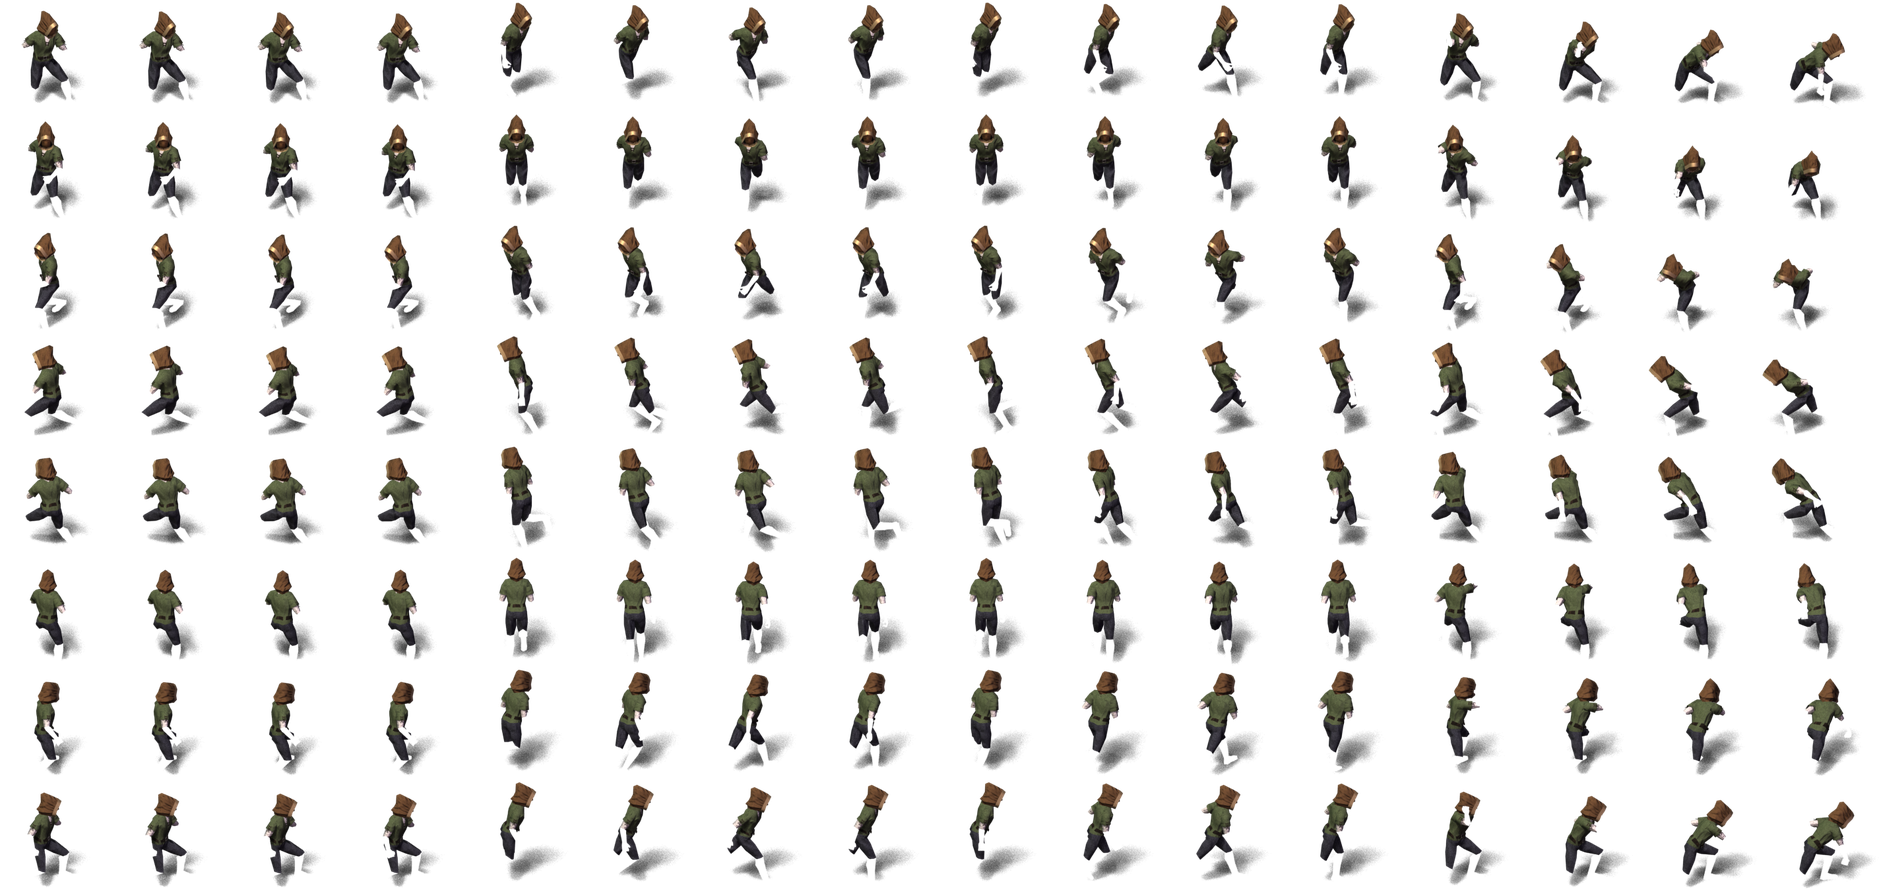
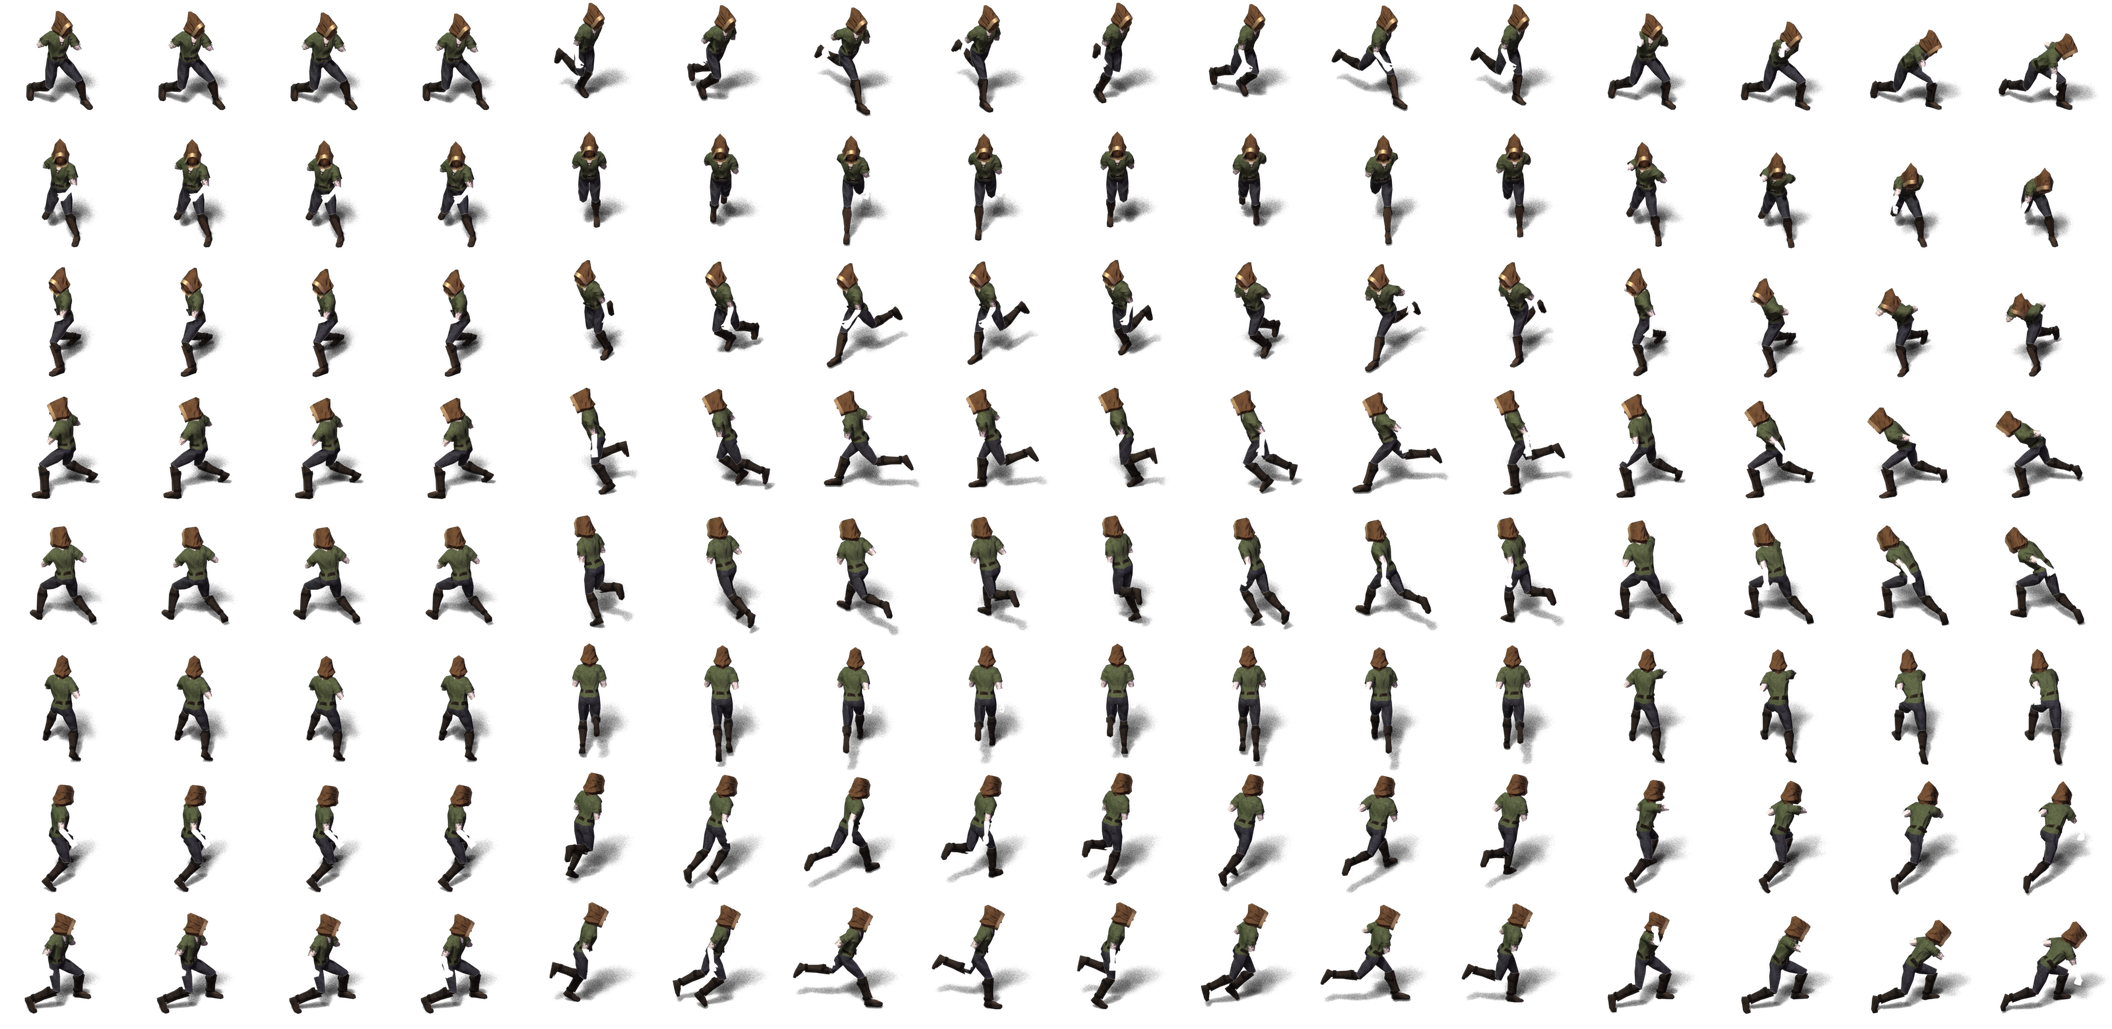
Visual polish: terrain blending, building detail, bigger dragons, boots
- Terrain transitions: higher-priority ground (snow > grass > road >
  rock > sand > water) feathers a dithered pixel fringe onto neighbours
  along shared diamond edges, so coasts, roads and snowlines blend
  instead of butting hard; masonry stays crisp on purpose
- Building detail: shuttered windows on upper wall cubes, chimneys with
  drifting smoke, roof ridge caps, and tables/stools dressing interiors
  (placed clear of vendors and walls)
- Dragons rebuilt at 1.6x their previous size
- Player avatar gets a leather boots layer — feet were bare/translucent
  because no foot layer was composited

Also ships Railway deploy config (railway.json, engines field, README
deploy section with volume note for data/ persistence).

https://claude.ai/code/session_01KSjxPmjtYxKmJPahfbJ56W

diff --git a/client/game.js b/client/game.js
@@ -37,6 +37,7 @@ const state = {
   mobs: new Map(),
   vendors: [],          // static shopkeepers from the welcome message
   drops: [],            // loot lying on the ground
+  props: [],            // furniture inside buildings (client-side dressing)
   me: null,             // my entry in players
   you: null,            // private stats from the server
   speech: new Map(),    // entity id -> { text, until, magic }
@@ -88,6 +89,22 @@ function handleMessage(msg) {
       state.chunks.clear();
       state.wantedChunks.clear();
       state.buildings = msg.buildings || [];
+      // Dress interiors with furniture, avoiding tiles where a vendor stands.
+      state.props = [];
+      const occupied = new Set(state.vendors.map((v) => v.x + ',' + v.y));
+      for (const b of state.buildings) {
+        if (b.w < 5 || b.h < 4) continue;
+        const cx = b.x + Math.floor(b.w / 2);
+        const cy = b.y + Math.floor(b.h / 2);
+        const spots = [[cx, cy], [cx - 1, cy], [cx, cy - 1], [cx + 1, cy]];
+        const free = spots.filter(([x, y]) =>
+          !occupied.has(x + ',' + y) &&
+          x > b.x && x < b.x + b.w - 1 && y > b.y && y < b.y + b.h - 1);
+        if (free.length) {
+          state.props.push({ x: free[0][0], y: free[0][1], name: b.w >= 6 ? 'prop.table' : 'prop.stool' });
+          if (free.length > 1) state.props.push({ x: free[1][0], y: free[1][1], name: 'prop.stool' });
+        }
+      }
       state.mini = msg.mini;
       buildMinimap();
       document.getElementById('login').classList.add('hidden');
@@ -509,6 +526,23 @@ function hash(x, y) {
   return ((h ^ (h >>> 16)) >>> 0) / 4294967296;
 }
 
+// Terrain blending: tiles with higher priority bleed a soft fringe onto
+// lower-priority neighbours. Masonry (floor/wall/shrine) stays crisp.
+const TILE_BLEND = {
+  [T.WATER]: { pal: 'water', pri: 0 },
+  [T.SAND]: { pal: 'sand', pri: 1 },
+  [T.ROCK]: { pal: 'dirt', pri: 2 },
+  [T.ROAD]: { pal: 'dirt', pri: 3 },
+  [T.GRASS]: { pal: 'grass', pri: 4 },
+  [T.TREE]: { pal: 'grass', pri: 4 },
+  [T.SNOW]: { pal: 'snow', pri: 5 },
+  [T.SNOWTREE]: { pal: 'snow', pri: 5 },
+};
+
+// Neighbour offsets for the four diamond edges, in edge order
+// (upper-left, upper-right, lower-right, lower-left).
+const EDGE_NEIGHBOR = [[-1, 0], [0, -1], [1, 0], [0, 1]];
+
 // Flat-shaded fallback palette, used when sprite assets are unavailable.
 const TILE_COLORS = {
   [T.WATER]: ['#1d4d6e', '#1a4664'],
@@ -601,6 +635,17 @@ function render() {
         const recipe = Assets.tile(tile) || Assets.tile(T.WATER);
         Assets.drawGround(ctx, recipe, h, sx, sy);
 
+        // Feather higher-priority neighbours over this tile's edges.
+        const blend = TILE_BLEND[tile];
+        if (blend) {
+          for (let e = 0; e < 4; e++) {
+            const nb = TILE_BLEND[tileAt(tx + EDGE_NEIGHBOR[e][0], ty + EDGE_NEIGHBOR[e][1])];
+            if (nb && nb.pri > blend.pri && nb.pal !== blend.pal) {
+              Assets.drawFringe(ctx, nb.pal, e, sx, sy);
+            }
+          }
+        }
+
         if (recipe.objectSets) {
           const sets = recipe.objectSets;
           const set = sets[Math.floor(hash((tx >> 4) * 7 + 3, (ty >> 4) * 13 + 5) * sets.length)];
@@ -609,7 +654,8 @@ function render() {
         } else if (recipe.object) {
           const name = recipe.object[Math.floor(hash(tx * 5 + 1, ty) * recipe.object.length)];
           drawables.push({ depth: tx + ty, kind: 'sprite', name, x: top.x, y: top.y + HH,
-            stack: recipe.stack || 1 });
+            stack: recipe.stack || 1,
+            win: recipe.stack > 1 && hash(tx * 3 + 5, ty * 7 + 1) > 0.55 });
         } else if (recipe.decor && hash(tx, ty * 3 + 1) < recipe.decor.chance) {
           const name = recipe.decor.objects[Math.floor(h * recipe.decor.objects.length)];
           drawables.push({ depth: tx + ty, kind: 'sprite', name, x: top.x, y: top.y + HH });
@@ -637,6 +683,13 @@ function render() {
     drawables.push({ depth: b.x + b.w + b.y + b.h + 0.5, kind: 'roof', b });
   }
 
+  // Interior furniture.
+  for (const pr of state.props) {
+    if (pr.x < x0 || pr.x > x1 || pr.y < y0 || pr.y > y1) continue;
+    const s = worldToScreen(pr.x, pr.y, cam);
+    drawables.push({ depth: pr.x + pr.y, kind: 'sprite', name: pr.name, x: s.x, y: s.y + HH, stack: 1 });
+  }
+
   // Entities join the same depth-sorted pass.
   for (const d of state.drops) drawables.push({ depth: d.x + d.y, kind: 'drop', e: d });
   for (const v of state.vendors) drawables.push({ depth: v.rx + v.ry, kind: 'vendor', e: v });
@@ -651,6 +704,7 @@ function render() {
           // Stacked wall cubes: plain blocks below, the variant on top.
           for (let i = 0; i < d.stack - 1; i++) Assets.drawFrame(ctx, 'wall.0', d.x, d.y - 32 * i);
           Assets.drawFrame(ctx, d.name, d.x, d.y - 32 * (d.stack - 1));
+          if (d.win) drawWindow(d.x, d.y);
         } else {
           Assets.drawFrame(ctx, d.name, d.x, d.y);
         }
@@ -658,7 +712,7 @@ function render() {
       case 'block': drawFallbackBlock(d); break;
       case 'shrine': drawShrine(d.x, d.y, time); break;
       case 'drop': drawDrop(d.e, cam, time); break;
-      case 'roof': drawRoof(d.b, cam); break;
+      case 'roof': drawRoof(d.b, cam, time); break;
       case 'vendor': drawVendor(d.e, cam, time); break;
       case 'mob': drawMob(d.e, cam, time); break;
       case 'player': drawPlayer(d.e, cam, time); break;
@@ -746,9 +800,21 @@ function drawFallbackBlock(d) {
   }
 }
 
+// A shuttered window on the southeast face of an upper wall cube.
+function drawWindow(cx, cy) {
+  const x = cx + 9;
+  const y = cy - 56;
+  ctx.fillStyle = '#241a12';
+  ctx.fillRect(x, y, 8, 11);
+  ctx.fillStyle = 'rgba(250, 220, 130, 0.25)';
+  ctx.fillRect(x + 1, y + 1, 6, 4);
+  ctx.strokeStyle = '#54483a';
+  ctx.strokeRect(x - 0.5, y - 0.5, 9, 12);
+}
+
 // A gabled roof drawn as an isometric prism above the building's walls.
 // UO-style: it vanishes while you stand inside.
-function drawRoof(b, cam) {
+function drawRoof(b, cam, time) {
   const e = 0.3; // eave overhang in tiles
   const x0 = b.x - e;
   const y0 = b.y - e;
@@ -787,6 +853,7 @@ function drawRoof(b, cam) {
     ctx.stroke();
   };
 
+  let chimney;
   if (b.w >= b.h) {
     // Ridge runs west-east.
     const my = (y0 + y1) / 2;
@@ -796,6 +863,12 @@ function drawRoof(b, cam) {
     poly([D, C, rB, rA], '#a0523f');  // south slope (faces camera)
     courses(D, C, rA, rB);
     poly([B, C, rB], '#874437');      // east gable
+    // ridge cap
+    ctx.strokeStyle = '#552a22';
+    ctx.lineWidth = 2;
+    ctx.beginPath(); ctx.moveTo(rA[0], rA[1]); ctx.lineTo(rB[0], rB[1]); ctx.stroke();
+    ctx.lineWidth = 1;
+    chimney = P(x0 + 1.4, my, ridgeLift);
   } else {
     // Ridge runs north-south.
     const mx = (x0 + x1) / 2;
@@ -805,6 +878,27 @@ function drawRoof(b, cam) {
     poly([B, C, rB, rA], '#a0523f');  // east slope (faces camera)
     courses(B, C, rA, rB);
     poly([D, C, rB], '#874437');      // south gable
+    ctx.strokeStyle = '#552a22';
+    ctx.lineWidth = 2;
+    ctx.beginPath(); ctx.moveTo(rA[0], rA[1]); ctx.lineTo(rB[0], rB[1]); ctx.stroke();
+    ctx.lineWidth = 1;
+    chimney = P(mx, y0 + 1.4, ridgeLift);
+  }
+
+  // Chimney and a lazy plume of smoke.
+  ctx.fillStyle = '#6a6258';
+  ctx.fillRect(chimney[0] - 4, chimney[1] - 14, 8, 14);
+  ctx.fillStyle = '#544e46';
+  ctx.fillRect(chimney[0] - 5, chimney[1] - 16, 10, 3);
+  const seed = (b.x * 31 + b.y * 17) % 1000;
+  for (let i = 0; i < 3; i++) {
+    const k = ((time / 1800 + seed / 1000 + i / 3) % 1);
+    const px = chimney[0] + Math.sin((k * 5 + i) * 2.2) * 4 + k * 8;
+    const py = chimney[1] - 18 - k * 26;
+    ctx.fillStyle = `rgba(200, 198, 192, ${0.3 * (1 - k)})`;
+    ctx.beginPath();
+    ctx.arc(px, py, 3 + k * 5, 0, Math.PI * 2);
+    ctx.fill();
   }
 }
 

diff --git a/client/assets.js b/client/assets.js
@@ -45,6 +45,8 @@ const Assets = (() => {
     sand: ['#c8b478', '#c0ac70', '#d0bc84', '#bca868'],
     dirt: ['#9a7a52', '#8f714b', '#a5845a', '#856844'],
     snow: ['#e9eef3', '#dfe6ee', '#f2f6f9', '#d6dfe9'],
+    grass: ['#76883e', '#6d7f38', '#7f9244', '#687a36'],
+    water: ['#5b87c8', '#5583c4', '#618fd0', '#5f8bcc'],
   };
 
   function buildProcGrounds() {
@@ -69,6 +71,49 @@ const Assets = (() => {
         state.proc[name].push(c);
       }
     }
+  }
+
+  // Fringe canvases keyed by palette + edge (0 = upper-left, 1 = upper-right,
+  // 2 = lower-right, 3 = lower-left), built lazily.
+  const fringes = new Map();
+
+  function fringeCanvas(pal, edge) {
+    const key = pal + ':' + edge;
+    let c = fringes.get(key);
+    if (c) return c;
+    const palette = PROC_PALETTES[pal];
+    c = document.createElement('canvas');
+    c.width = 64;
+    c.height = 32;
+    const g = c.getContext('2d');
+    let seed = edge * 31337 + pal.length * 7919 + 17;
+    const rnd = () => (seed = (seed * 16807) % 2147483647) / 2147483647;
+    for (let y = 0; y < 32; y++) {
+      const dy = y < 16 ? y : 31 - y;
+      const x0 = 32 - 2 * (dy + 1);
+      const x1 = 32 + 2 * (dy + 1);
+      for (let x = x0; x < x1; x += 2) {
+        // Distance (in px) from this block to each diamond edge.
+        const d = [
+          x / 2 + y - 16,              // upper-left
+          (64 - x) / 2 + y - 16,       // upper-right
+          (64 - x) / 2 + (32 - y) - 16, // lower-right
+          x / 2 + (32 - y) - 16,       // lower-left
+        ][edge];
+        const a = 1 - d / 9;
+        if (a <= 0 || rnd() > a * 0.95) continue;
+        g.fillStyle = palette[Math.floor(rnd() * palette.length)];
+        g.fillRect(x, y, 2, 1);
+      }
+    }
+    fringes.set(key, c);
+    return c;
+  }
+
+  // Overlay the fringe of a neighbouring terrain along one diamond edge.
+  function drawFringe(ctx, pal, edge, sx, sy) {
+    if (!PROC_PALETTES[pal]) return;
+    ctx.drawImage(fringeCanvas(pal, edge), Math.round(sx), Math.round(sy));
   }
 
   function drawFrame(ctx, name, sx, sy) {
@@ -123,5 +168,5 @@ const Assets = (() => {
     return true;
   }
 
-  return { state, load, tile, creature, drawFrame, drawGround, drawCreature };
+  return { state, load, tile, creature, drawFrame, drawGround, drawCreature, drawFringe };
 })();

diff --git a/tools/build-assets.py b/tools/build-assets.py
@@ -51,6 +51,8 @@ SOURCES = {
     'head_short.txt': f'{FLARE}/fantasycore/animations/avatar/male/head_short.txt',
     'mage_hood.png': f'{FLARE}/fantasycore/images/avatar/male/mage_hood.png',
     'mage_hood.txt': f'{FLARE}/fantasycore/animations/avatar/male/mage_hood.txt',
+    'leather_boots.png': f'{FLARE}/fantasycore/images/avatar/male/leather_boots.png',
+    'leather_boots.txt': f'{FLARE}/fantasycore/animations/avatar/male/leather_boots.txt',
 }
 
 # Flare's calcDirection: dir = (round(theta / 45deg) + 5) % 8, theta in tile
@@ -334,6 +336,8 @@ def main():
     trim_object(terrain, (448, 832, 640, 1024), 'tree.oak', frames, 'terrain')
     trim_object(building, (0, 0, 64, 64), 'wall.0', frames, 'building')
     trim_object(building, (64, 0, 128, 64), 'wall.1', frames, 'building')
+    trim_object(building, (64, 320, 178, 384), 'prop.table', frames, 'building')
+    trim_object(building, (208, 352, 240, 384), 'prop.stool', frames, 'building')
 
     # Snow-dusted trees: copies of the conifers with whitened foliage.
     snow_sources = ['tree.pine0', 'tree.pine1', 'tree.pine2', 'tree.pine3',
@@ -411,16 +415,17 @@ def main():
     creatures['skeleton'] = build_creature('skeleton', [packed('skeleton')], scale=0.6)
     creatures['orc'] = build_creature('orc', [packed('hobgoblin')], scale=0.95)
     creatures['ettin'] = build_minotaur(scale=1.0)
-    creatures['dragon'] = build_dragon(scale=0.5)
+    creatures['dragon'] = build_dragon(scale=0.8)
 
     pants = packed('cloth_pants')
+    boots = packed('leather_boots')
     shirt = packed('cloth_shirt')
     head = packed('head_short')
     hood = packed('mage_hood')
     creatures['player'] = build_creature(
-        'player', [pants, shirt, head], scale=0.66, stance_ms=260)
+        'player', [boots, pants, shirt, head], scale=0.66, stance_ms=260)
     creatures['vendor'] = build_creature(
-        'vendor', [pants, shirt, hood], scale=0.66, stance_ms=320)
+        'vendor', [boots, pants, shirt, hood], scale=0.66, stance_ms=320)
 
     manifest = {
         'tileW': 64, 'tileH': 32,

diff --git a/README.md b/README.md
@@ -17,6 +17,22 @@ npm start          # listens on :8080 (override with PORT=...)
 Open http://localhost:8080 in as many browser tabs (or machines) as you like —
 each tab is a player in the same world.
 
+## Deploying to Railway
+
+The repo is Railway-ready (`railway.json` + the `PORT` env var are honoured):
+
+```bash
+npm i -g @railway/cli
+railway login
+railway init     # create a project from this directory
+railway up       # build & deploy
+railway domain   # mint a public https URL
+```
+
+Player accounts and characters live in `data/`. Containers are ephemeral, so
+attach a volume (Railway dashboard → service → Volumes) mounted at `/app/data`
+to keep accounts across deploys.
+
 ## The world
 
 A 2048×2048 island, generated deterministically from a seed and streamed to